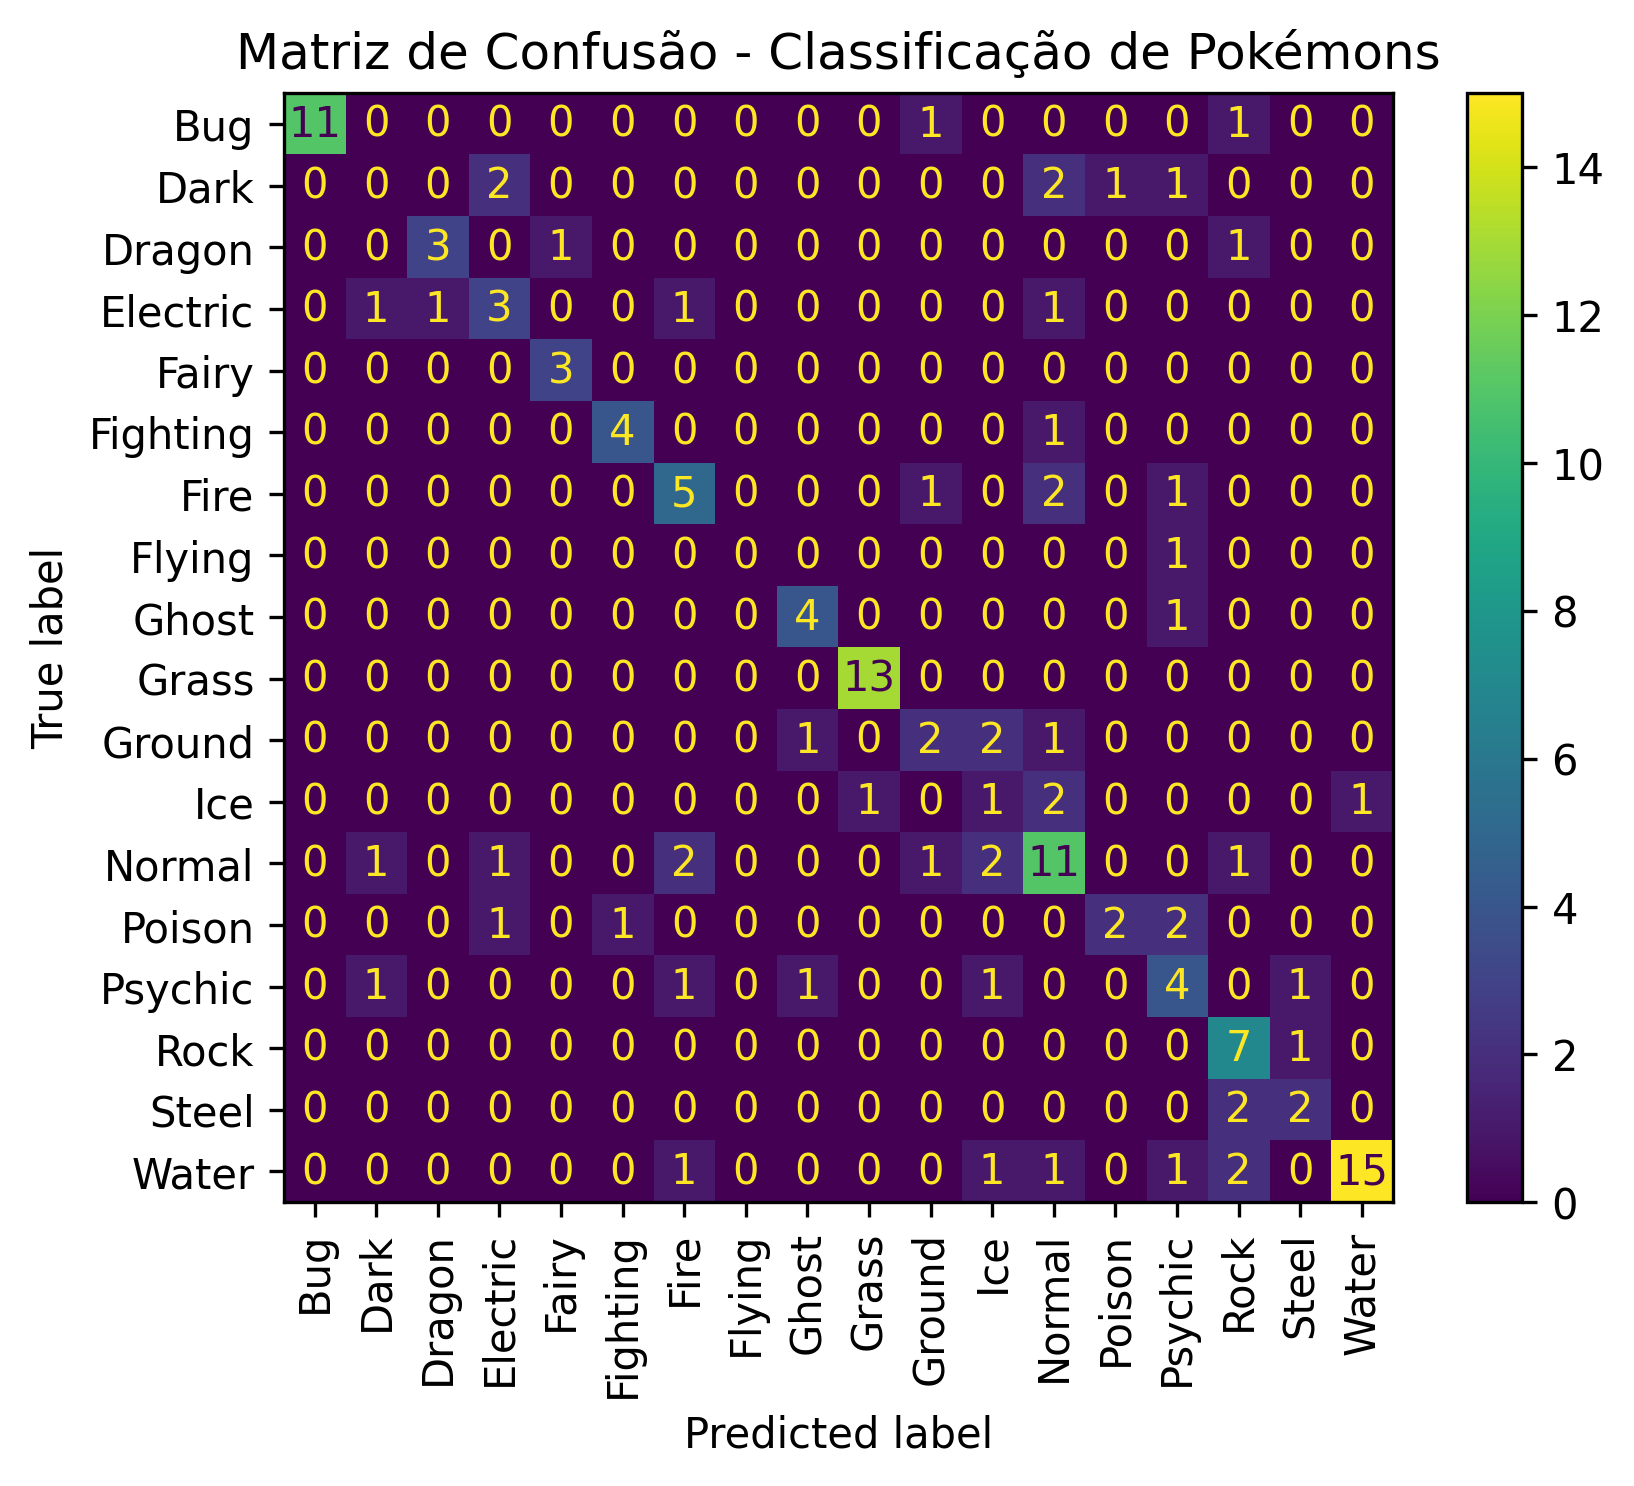
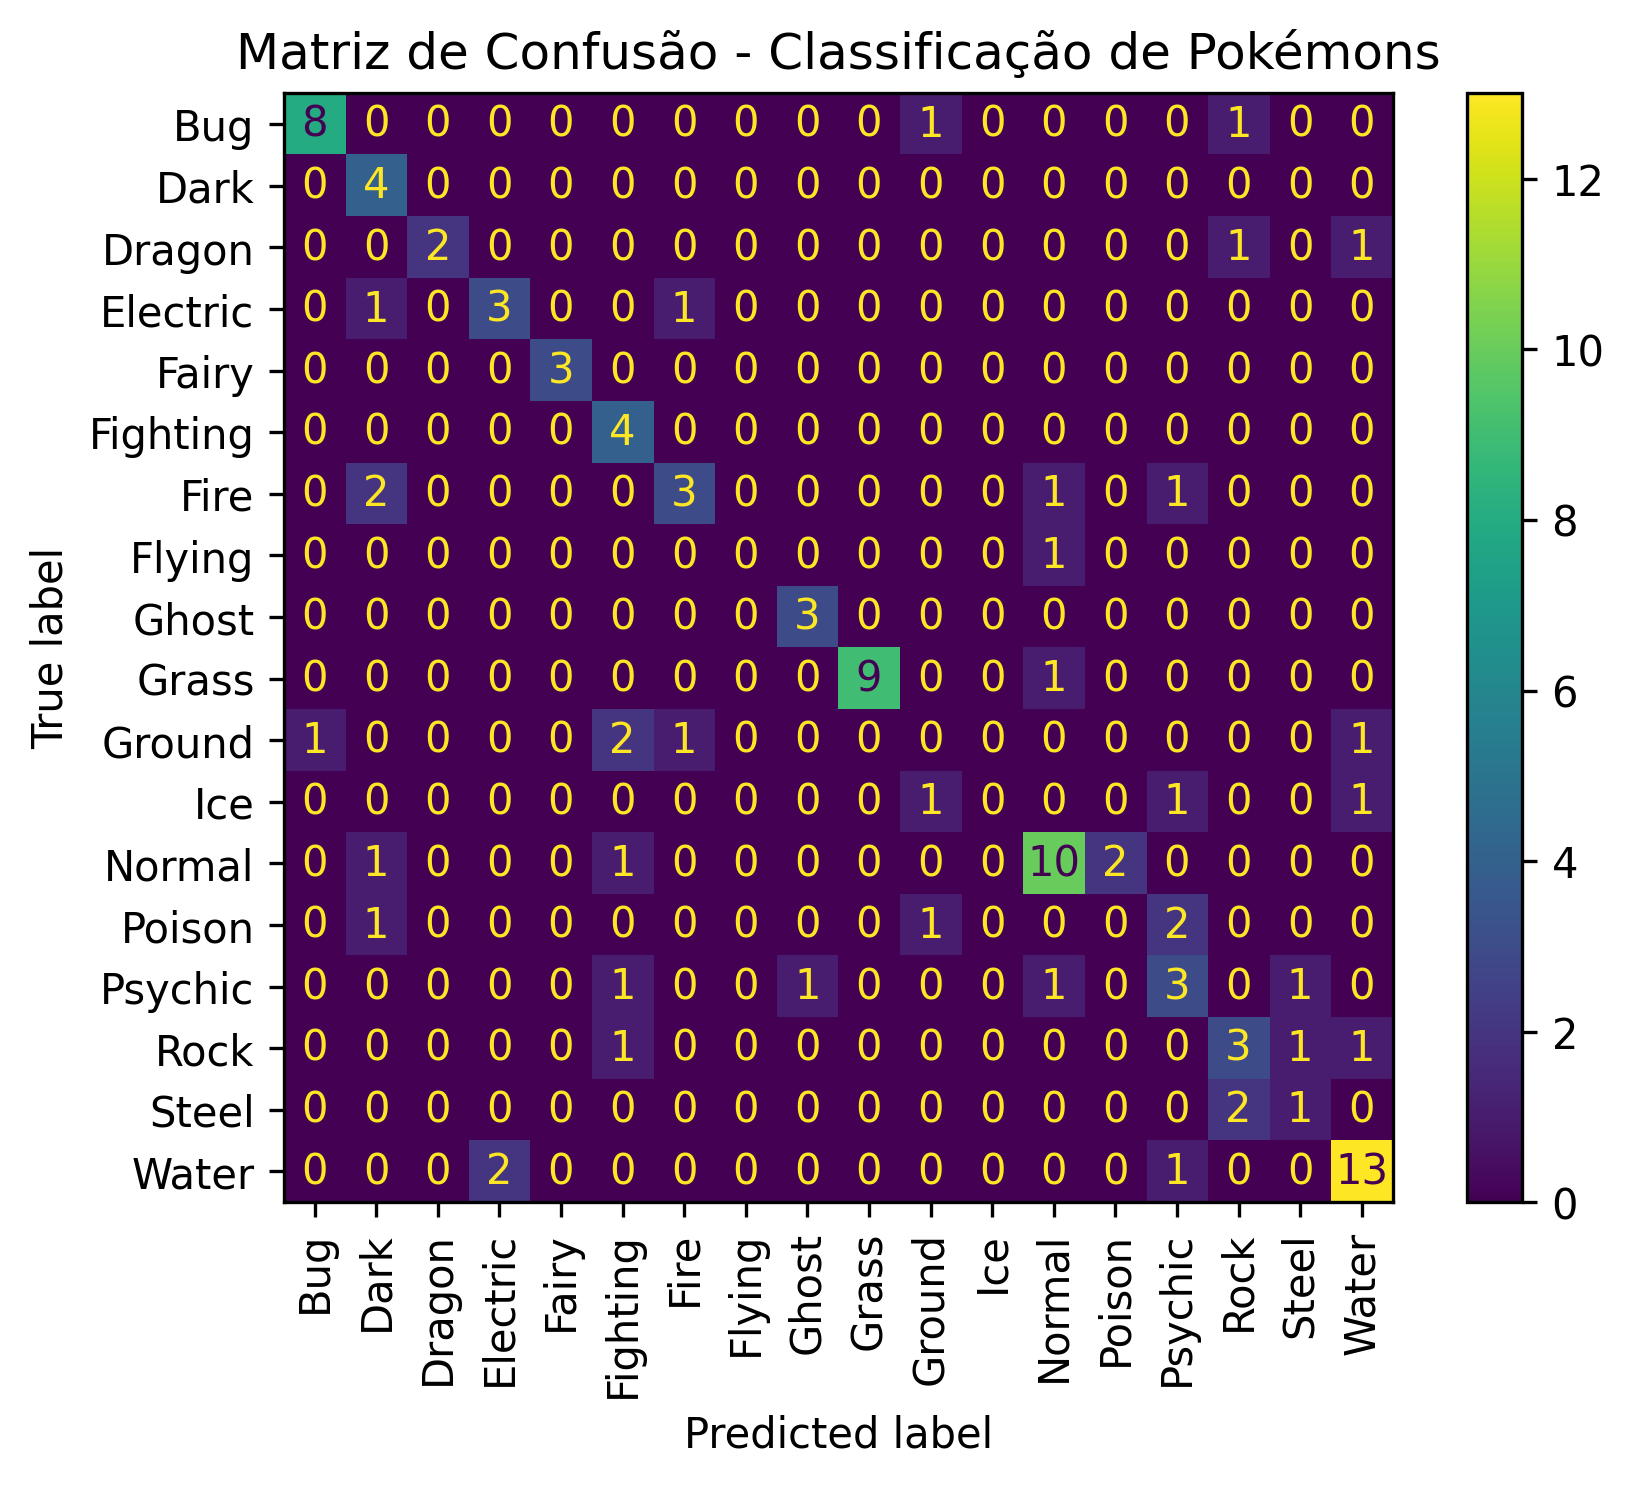
Rede com melhor resultado

diff --git a/main.py b/main.py
@@ -1,15 +1,3 @@
-"""
-tirando alguns parâmetros
-diminui qnt de testes
-max_iter * 3
-batch_size menor
-RobustScaler
-matriz de confusão com matplotlib
-n_iter_no_change
-evitar normalizar valores binários transformados
-balancear classes com SMOTE
-"""
-
 import pandas as pd
 from sklearn.model_selection import train_test_split
 from sklearn.preprocessing import RobustScaler
@@ -22,55 +10,41 @@ import joblib
 
 dados = pd.read_csv('pokemon_alopez247.csv')
 
-X = dados.drop(['Type_1', 'Type_2', 'Number', 'Pr_Male', 'Generation', 'hasGender', 'Name', 'hasMegaEvolution', 'isLegendary', 'Catch_Rate'], axis=1, errors='ignore')  # Remove colunas irrelevantes
+X = dados.drop(['Type_1', 'Type_2', 'Number', 'Pr_Male', 'Generation', 'hasGender', 'Name', 'hasMegaEvolution', 'isLegendary', 'Catch_Rate'], axis=1, errors='ignore')  # Removendo dados irrelevantes
 y = dados['Type_1']
 
-# Removendo nulos
+# Removendo valores nulos
 X = X.fillna(0)
 X = pd.get_dummies(X)
 
 scaler = RobustScaler()
-
 num_cols = ['HP', 'Attack', 'Defense', 'Sp_Atk', 'Sp_Def', 'Speed', 'Total', 'Height_m', 'Weight_kg']
 X_scaled = X.copy()
 X_scaled[num_cols] = scaler.fit_transform(X_scaled[num_cols])
 
 X_train, X_test, y_train, y_test = train_test_split(
-    X_scaled, y, test_size=0.2, random_state=42, stratify=y
+    X_scaled, y, test_size=0.15, random_state=42, stratify=y
 )
 
 # Balanceando classes via SMOTE
-smote = SMOTE(random_state=42, k_neighbors=1)
+smote = SMOTE(random_state=42)
 X_train_balanced, y_train_balanced = smote.fit_resample(X_train, y_train)
 print(f"Antes do SMOTE: {y_train.value_counts()}")
 print(f"Depois do SMOTE: {y_train_balanced.value_counts()}")
 
-#X_train = scaler.fit_transform(X_train)
-#X_test = scaler.transform(X_test)
+X_train = scaler.fit_transform(X_train_balanced)
 
 modelo = MLPClassifier(
-    #hidden_layer_sizes=(128, 64),  
-    #hidden_layer_sizes=(256, 128),
-    hidden_layer_sizes=(512, 256, 128),
-
+    hidden_layer_sizes=(2048, 1024, 512, 256, 128),
     activation='relu',             
     solver='adam',
     batch_size=32,  
-
     max_iter=2000,                
     random_state=42
 )
 
 modelo.fit(X_train_balanced, y_train_balanced)
 y_pred = modelo.predict(X_test)
-
-# MATRIZ DE CONFUSÃO
-cm = confusion_matrix(y_test, y_pred, labels=modelo.classes_)
-
-disp = ConfusionMatrixDisplay(confusion_matrix=cm, display_labels=modelo.classes_)
-disp.plot(xticks_rotation=90, cmap='viridis')
-plt.title("Matriz de Confusão - Classificação de Pokémons")
-plt.savefig('resultados/matriz_confusao.png', dpi=300, bbox_inches='tight')
 
 print(classification_report(y_test, y_pred))
 
@@ -91,7 +65,16 @@ acc_tipo1_ou_tipo2 = acertos_tipo1_ou_tipo2 / len(y_test)
 print(f"Acurácia tipo primário exato: {acc_tipo1:.2%}")
 print(f"Acurácia tipo primário OU tipo secundário: {acc_tipo1_ou_tipo2:.2%}")
 
+# MATRIZ DE CONFUSÃO
+cm = confusion_matrix(y_test, y_pred, labels=modelo.classes_)
+
+disp = ConfusionMatrixDisplay(confusion_matrix=cm, display_labels=modelo.classes_)
+disp.plot(xticks_rotation=90, cmap='viridis')
+plt.title("Matriz de Confusão - Classificação de Pokémons")
+plt.savefig('resultados/matriz_confusao.png', dpi=300, bbox_inches='tight')
+
 '''
+Caso vá utilizar Oversampling ao invés do SMOTE
 y_counts = y_train.value_counts()
 X_train_res = X_train.copy()
 y_train_res = y_train.copy()
@@ -112,4 +95,6 @@ for classe, count in y_counts.items():
         # Adiciona ao conjunto de treino
         X_train_res = pd.concat([X_train_res, X_oversample], axis=0)
         y_train_res = pd.concat([y_train_res, y_oversample], axis=0)
+
+
 '''

diff --git a/README.md b/README.md
@@ -1,14 +1,14 @@
 # IA-Classificacao-Pokemons
 
-O objetivo desta atividade foi criar uma rede neural MLP capaz de resolver um problema de classificação definido, particularmente o de adivinhar o tipo de um dado pokemon a partir de alguns parâmetros coletados de uma base de dados. Caso o pokemon possua dois tipos, e pelo menos um tipo foi previsto com sucesso, considera-se como um todo sucesso a previsão
+O objetivo desta atividade foi criar uma rede neural MLP capaz de resolver um problema de classificação definido, particularmente o de adivinhar o tipo de um dado pokemon a partir de alguns parâmetros coletados de uma base de dados. Caso o pokemon possua dois tipos, e pelo menos um tipo foi previsto com sucesso, considera-se como um todo sucesso a previsão.
 
 <h2>Ambiente</h2>
 
-Foram usadas as bibliotecas do python <code>scikit-learn</code>, para criar a rede e tratar o conjunto de dados, <code>pandas</code>, para leitura do CSV e normatização, <code>matplotlib</code>, para criar o gráfico da matriz de confusão, e <code>joblib</code>, para salvar em arquivo o conjunto de dados normatizado e a rede MLP
+Foram usadas as bibliotecas do python <code>scikit-learn</code>, para criar a rede e tratar o conjunto de dados, <code>pandas</code>, para leitura do CSV e normatização, <code>matplotlib</code>, para criar o gráfico da matriz de confusão, e <code>joblib</code>, para salvar em arquivo o conjunto de dados normatizado e a rede MLP.
 
-A base de dados utilizada no algoritmo está disponível <a href="https://www.kaggle.com/datasets/alopez247/pokemon/code">neste link</a>, e foi baixada como CSV
+A base de dados utilizada no algoritmo está disponível <a href="https://www.kaggle.com/datasets/alopez247/pokemon/code">neste link</a>, e foi baixada como CSV.
 
-O código foi escrito no VSCode, e tudo foi executado no sistema operacional Linux. A versão do python utilizada é a <code>3.12.3</code>
+O código foi escrito no VSCode, e tudo foi executado no sistema operacional Linux. A versão do python utilizada é a <code>3.12.3</code>.
 
 <h2>Primeiro teste</h2>
 
@@ -24,12 +24,47 @@ modelo = MLPClassifier(
 )
 ```
 
-Nesse molde, os resultados não foram satisfatórios, estão dispostos na imagem abaixo. Foram utilizadas as métricas de avaliação <i>precision, recall</i> e <i>f1-score</i>, contudo, para contabilizar sucessos no acerto de pelo menos um dos tipos (ambos serviriam como rótulos), foi criado um método diferente para cálculo da acurácia
+Nesse molde, os resultados não foram satisfatórios, estão dispostos na imagem abaixo. Foram utilizadas as métricas de avaliação <i>precision, recall</i> e <i>f1-score</i>, contudo, para contabilizar sucessos no acerto de pelo menos um dos tipos (ambos serviriam como rótulos), foi criado um método diferente para cálculo da acurácia.
 
-<img src="/imagens/primera_iteracao.png" alt="Imagem do primeiro teste" />
+<img src="imagens/primera_iteracao.png" alt="Imagem do primeiro teste" />
 
-A acurácia do primeiro tipo foi de 65.44%, enquanto que considerando ambos tipos foi 68.66%. O objetivo é obter uma acurácia de 90% para cima, de modo a considerar a rede satisfatória
+A acurácia do primeiro tipo foi de 65.44%, enquanto que considerando ambos tipos foi 68.66%. O objetivo é obter uma acurácia de 70% para cima, de modo a considerar a rede satisfatória.
 
-...
+<h2>Ajustes</h2>
 
-Eventualmente, foi percebido o maior problema da rede: as classes estavam desbalanceadas, de modo que, a exemplo, o tipo voador "Flying", possuía somente dois registros, sendo ambos da mesma família Pokemon. Isso se deu pela característica dos jogos de Pokemon priorizarem o tipo voador como tipo secundário, o que fez com que o número de Pokemon dessa classe e outras caíssem tanto de modo que o algoritmo SMOTE também não foi capaz de suprir, pois criar dados sintéticos a partir de duas instâncias não gerou resultados desejáveis. Deste modo, foi necessária uma intervenção manual no conjunto de dados  
+Eventualmente, foi percebido o maior problema da rede: as classes estavam desbalanceadas, de modo que, a exemplo, o tipo voador "Flying", possuía somente dois registros, sendo ambos da mesma família Pokemon. Isso se deu pela característica dos jogos de Pokemon priorizarem o tipo voador como tipo secundário, o que fez com que o número de Pokemon dessa classe e outras caíssem tanto de modo que o algoritmo SMOTE também não foi capaz de suprir, pois criar dados sintéticos a partir de duas instâncias não gerou resultados desejáveis. Deste modo, foi necessária uma intervenção manual no conjunto de dados, tendo adicionado mais seis registros para o tipo voador, com informações oficiais precisas buscadas no <a href="https://bulbapedia.bulbagarden.net/wiki/Rookidee_(Pok%C3%A9mon)">Bulbapedia</a>. Deste modo, o SMOTE teria maior capacidade para criar registros sintéticos e, assim, balancear as classes.
+
+Esta mudança, somada a todas as outras, permitiu eventualmente uma melhora na acurácia total. Segue a lista de mudanças que obtiveram o teste de melhor sucesso:
+<ul>
+    <li>Vários parâmetros foram removidos na preparação dos dados pois impactam de forma alguma no tipo do Pokemon. Os parâmetros removidos foram <code>Number, Pr_Male, Generation, hasGender, hasMegaEvolution, isLegendary, Catch_Rate</code> e <code>Name</code></li>
+    <li>Diminuída a base usada para testes para 10% da base total</li>
+    <li>Substituído o <code>StandardScaler</code> por <code>RobustScaler</code>, que lida melhor com dados muito discrepantes (por exemplo, o peso varia bastante entre os pokemons)</li>
+    <li>Adicionada uma verificação para evitar normalizar dados binários transformados. Essa função foi necessária pois alguns campos, como Egg_Group, possuem dados textuais, que não poderiam ser processados do mesmo modo, e foram convertidos para valores binários correspondentes. Portanto, para evitar que o normalizador altere a informação desses dados, foram retirados dessa parte</li>
+    <li>Adicionado balanceador de classes via SMOTE, que cria registros sintéticos baseados nos registros reais da base de dados (somente nos conjuntos de treinamento)</li>
+    <li>Algumas mudanças na rede MLP:</li>
+        <ul>
+        <li><code>hidden_layer_sizes</code> foi aumentado para cinco camadas ocultas, de valores 2048, 1024, 512, 256 e 128</li>
+        <li><code>batch_size</code> foi explicitamente declarado como 32 (antes era o padrão 256)</li>
+        <li><code>max_iter</code> foi aumentado para 2000 iterações</li>
+        </ul>
+</ul>
+
+<h2>Melhor resultado</h2>
+
+Com os ajustes feitos, o melhor resultado foi o disposto na seguinte figura
+
+<img src="imagens/melhor_resultado.png"/>
+
+Os ajustes permitiram uma precisão de pelo menos um dos tipos de 71.82%, o que era o objetivo desejável, contudo há algumas observações. Como disposto na matriz de confusão, criada com <code>matplotlib</code>
+
+<img src="imagens/matriz_confusao_melhor_resultado.png" />
+
+É de se notar que, com pelo menos quatro tipos, o algoritmo não foi capaz de prever nenhum registro dos conjuntos de teste. Isso pode se dar pela falta de registros, de como que acabaram não sendo suficientes para montar uma rede confiável. A base de dados possui uma eficácia consistente para, por exemplo, os tipos água e inseto, que possuem vários registros e características mais marcantes em membros do seu tipo
+
+Também, a presença de vários pokemons lendários afeta a rede, pois de certo modo são <i>outliars</i>, dado que geralmente possuem status mais elevados que pokemons comuns, o que pode confundir a rede
+
+A rede utilizou cinco camadas ocultas, tornando-a lenta, mas foi o padrão que mais trouxe resultados. Possivelmente uma oportunidade de otimização seria diminuir o números de camadas ocultas sem perturbar a eficácia
+
+<h2>Conclusão</h2>
+
+Com os dados dispostos, o algoritmo teve uma eficácia de ao menos um dos tipos próxima de 72%. O resultado é satisfatório, pois, mesmo que compartilhem o tipo, pokemons são diferentes entre si e não necessariamente saber seu tipo corporal ou cor é o suficiente para categorizá-lo. Possivelmente, a melhor oportunidade de otimização e melhora do algoritmo seria utilizar ambos tipos para categorização do pokemon, criando uma rede <code>multilabel</code>, assim contornando o problema de falta de regsitros e como um todo melhorando a eficácia
